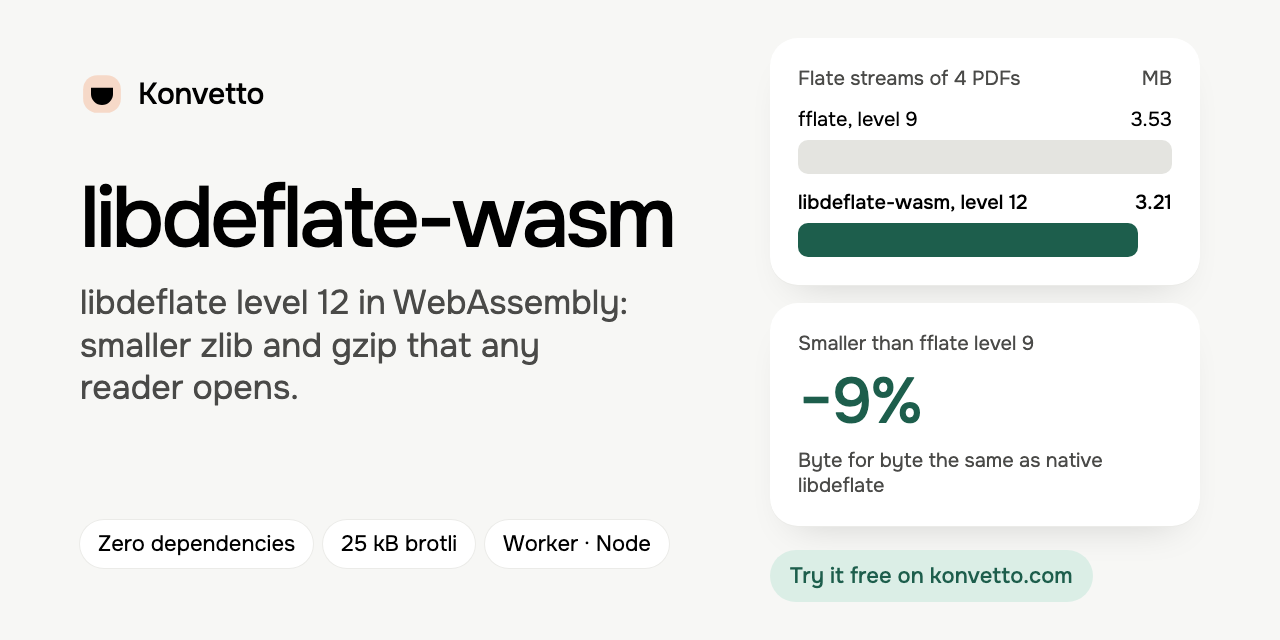
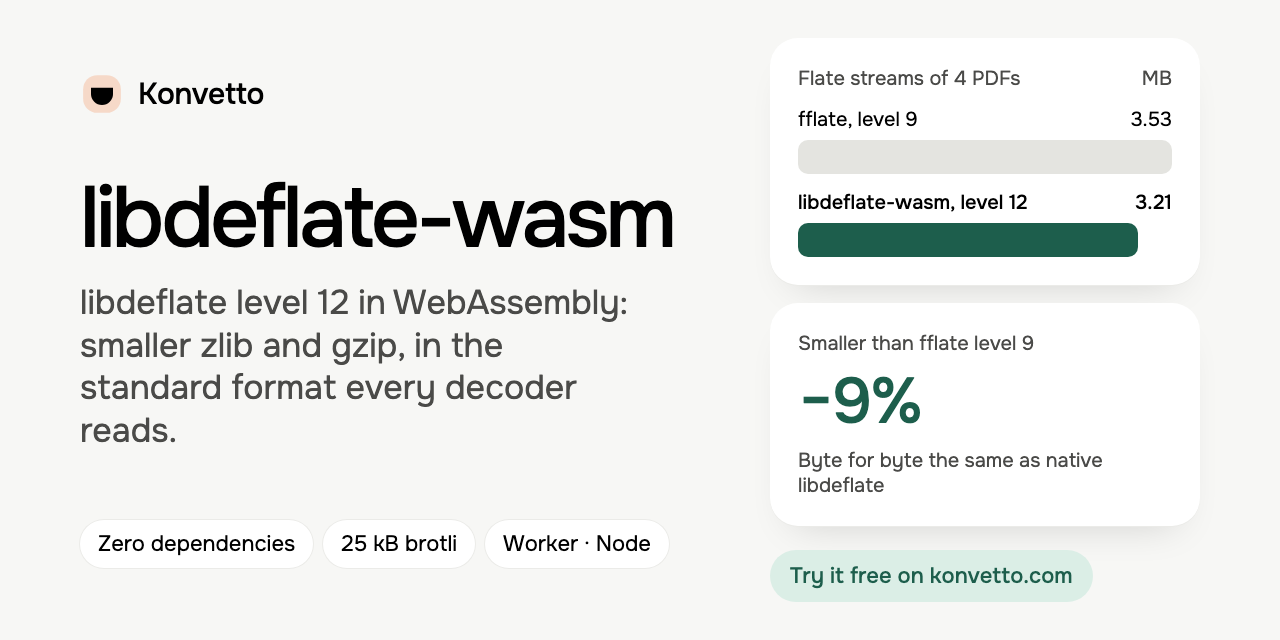
docs: clearer wording on compatibility in the README and social preview

Changed region(s): [[0.0625, 0.5, 0.4688, 0.625], [0.0625, 0.6562, 0.1562, 0.6875]]

diff --git a/README.md b/README.md
@@ -11,8 +11,8 @@ dependencies.**
 [![license](https://img.shields.io/npm/l/libdeflate-wasm)](./LICENSE)
 [![CI](https://github.com/Konvetto/libdeflate-wasm/actions/workflows/ci.yml/badge.svg)](https://github.com/Konvetto/libdeflate-wasm/actions/workflows/ci.yml)
 
-libdeflate's level 12 makes DEFLATE streams that any zlib, browser or PDF reader opens, and that
-are noticeably smaller than zlib's best: on the Flate streams of four real PDFs, 9.0 percent
+libdeflate's level 12 makes standard DEFLATE streams, decoded as usual by zlib, browsers and PDF
+readers, that are noticeably smaller than zlib's best: on the Flate streams of four real PDFs, 9.0 percent
 smaller than fflate at level 9 and 6.3 percent smaller than zlib at level 9. This package is that
 compressor, compiled once to a single-threaded wasm file, with a synchronous API after one
 `await init()`. It runs in browsers, Web Workers, Node, Deno and Bun.
